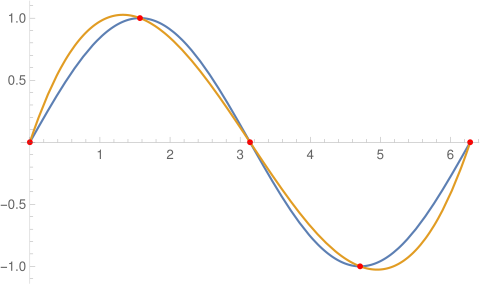
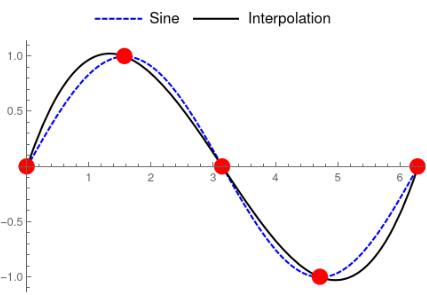
Updated sine graphs

diff --git a/Paper/investigationAssignment.tex b/Paper/investigationAssignment.tex
@@ -64,11 +64,19 @@
         \captionof{figure}{6 evenly spaced points (sin)}
     \end{Figure}
 
-    These polynomials are calculated using a method called Lagrange Interpolation \cite{enwiki:lagrange_polynomial}, \cite{mathworld:lagrange_polynomial}. To preform this method, we begin with $n$ data points labelled $(x_1, y_1), (x_2, y_2), \ldots, (x_n, y_n)$. In order to find a polynomial that passes through all of the points, we use
+    These polynomials are calculated using a method called \textbf{Lagrange Interpolation} \cite{enwiki:lagrange_polynomial}\cite{mathworld:lagrange_polynomial}. To preform this method, we begin with $n$ data points that will be referred to as $(x_1, y_1), (x_2, y_2), \ldots, (x_n, y_n)$. In order to find a polynomial that passes through all of these points, we use
     \begin{align*}
         P(x) & = \sum_{j=1}^n\left(y_j\prod_{\substack{k=1 \\ k\neq j}}^n
-        \frac{x-x_k}{x_j-x_k} \right).
+        \frac{x-x_k}{x_j-x_k} \right)
     \end{align*}
+    or, written more explicitly,
+    \begin{align*}
+         & \phantom{+} y_1\frac{(x-x_2)(x-x_3)\ldots(x-x_n)}{(x_1-x_2)(x_1-x_3)\ldots(x_1-x_n)} \\
+         & + y_2\frac{(x-x_1)(x-x_3)\ldots(x-x_n)}{(x_2-x_1)(x_2-x_3)\ldots(x_2-x_n)}           \\
+         & \vdots                                                                               \\
+         & + y_n\frac{(x-x_1)(x-x_2)\ldots(x-x_{n-1})}{(x_n-x_1)(x_n-x_2)\ldots(x_n-x_{n-1})}.
+    \end{align*}
+    In most cases, this formula works very well. In fact, as the number of points tends towards infinity, 
 
 
     \bibliographystyle{acm}
